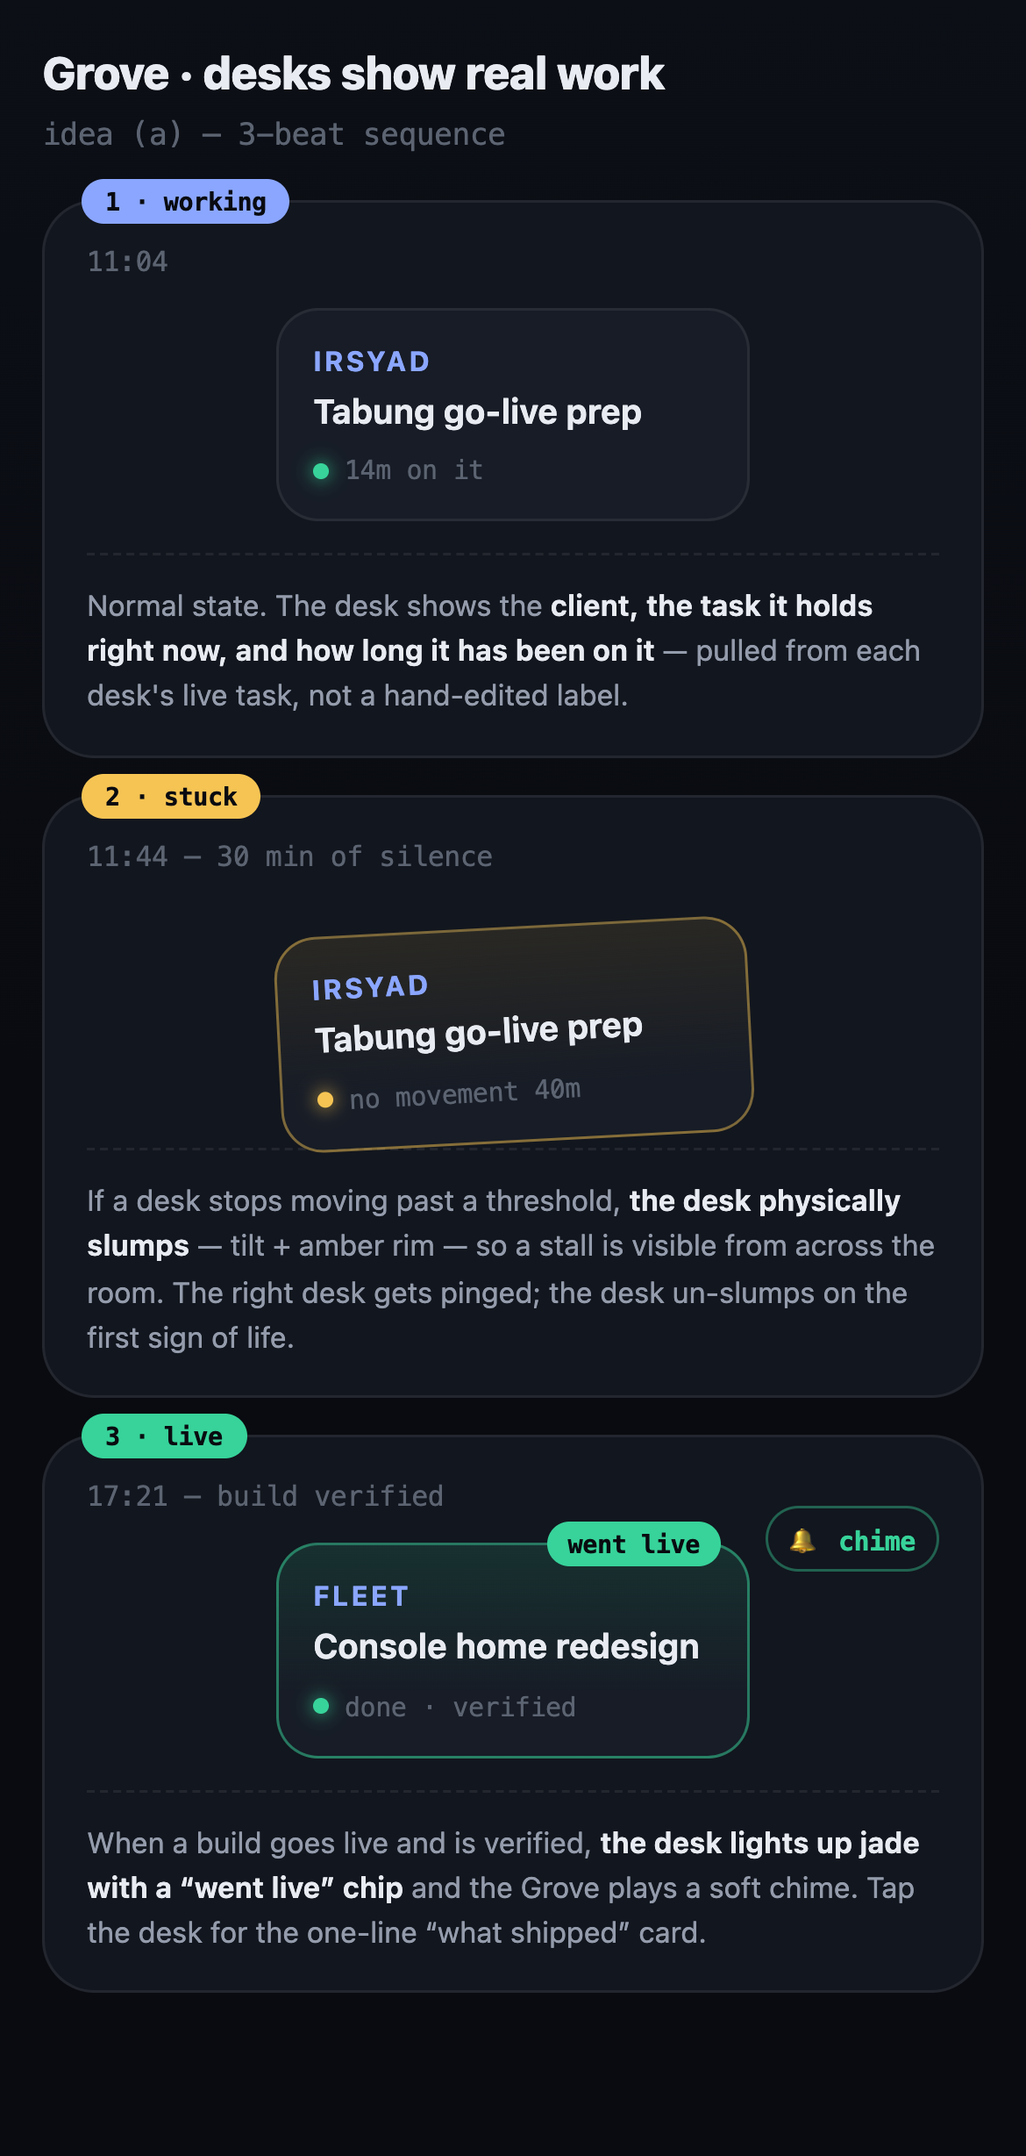
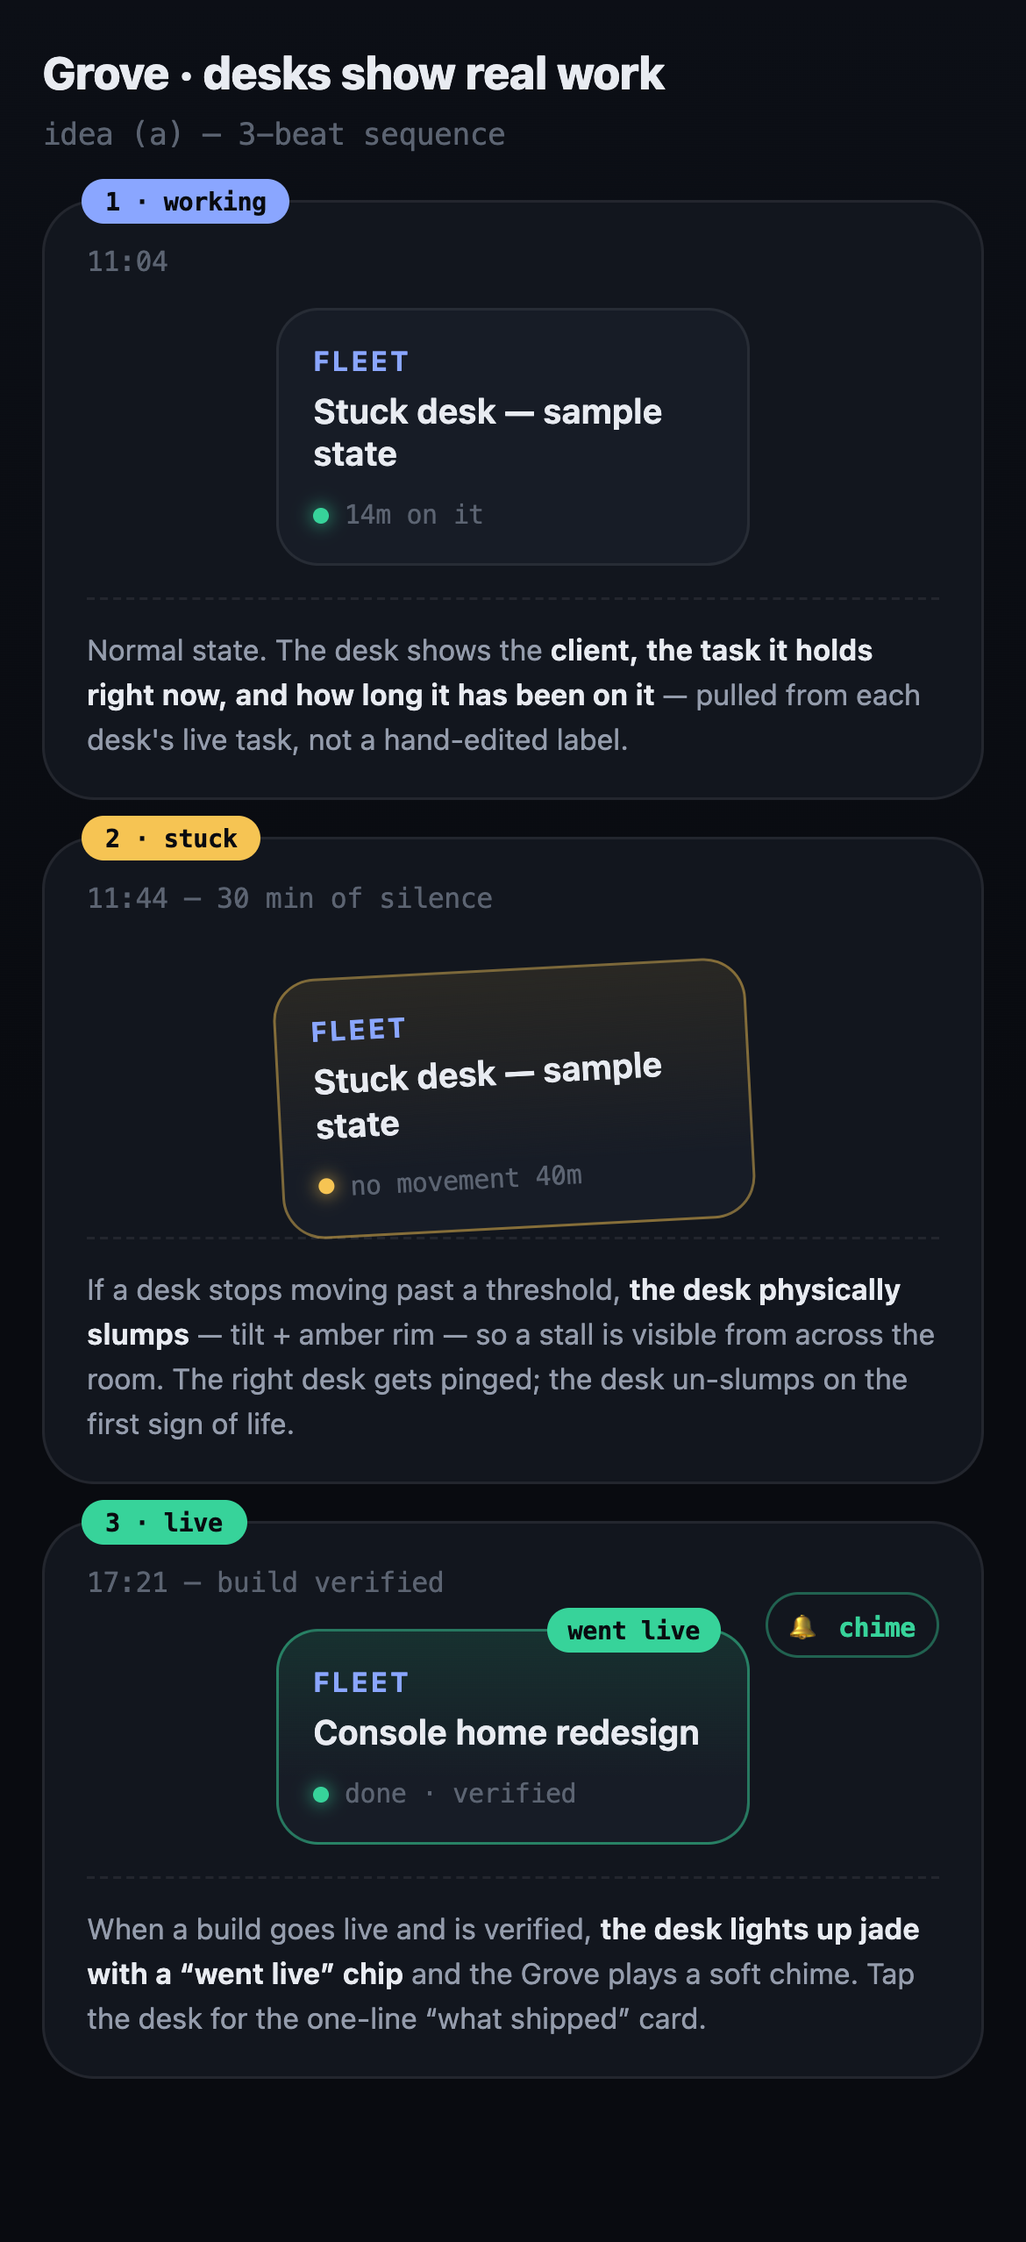
docs(mockups): rev2 per orch-console 78498 — no invented progress on real items
1. Parcel story = real ask 5343 end-to-end: personal-issue field change,
   asked 09:14, ADCDA desk (real owner), live 14:21, took 5h07m — every
   timestamp from the ask row. Still shows its true state (live), not a
   fabricated building.
2. MUIS CEO lines de-client-tagged in home A/B/1280 (source row is
   operator-surface, delegated orch-console — the ADCDA tag was my
   composition error, not a derivation to fix).
3. Stuck-desk examples now fleet desks labelled "sample" (grove-a still+seq,
   grove-c-seq) — no invented state on the real irsyad/Tabung work.
4. Parcel badge clipping fixed (padding) + geometry-asserted (clear by 14px).

All 9 re-rendered, structural + no-jargon asserts green.

diff --git a/reports/mockups/2026-10-28-op-first-home/grove-b-parcel.html b/reports/mockups/2026-10-28-op-first-home/grove-b-parcel.html
@@ -22,9 +22,9 @@ background:linear-gradient(180deg,rgba(138,166,255,.16),var(--surface2));display
 .end.desk .door{border-color:rgba(55,211,154,.4);background:linear-gradient(180deg,rgba(55,211,154,.14),var(--surface2))}
 .courier{position:absolute;left:50%;top:36px;transform:translateX(-50%);text-align:center}
 .courier .body{width:34px;height:34px;border-radius:50%;background:var(--indigo);display:flex;align-items:center;justify-content:center;font-size:16px;box-shadow:0 0 18px rgba(138,166,255,.5)}
-.parcel{position:relative;width:112px;margin:10px auto 0;border:1px solid var(--amber);border-radius:10px;background:var(--surface2);padding:9px 10px;text-align:center}
+.parcel{position:relative;width:112px;margin:10px auto 0;border:1px solid var(--jade);border-radius:10px;background:var(--surface2);padding:10px 10px 13px;text-align:center}
 .parcel .t{font:650 12px/1.25 var(--sans)}
-.parcel .s{font:700 9px var(--mono);color:var(--bg);background:var(--amber);display:inline-block;padding:2px 8px;border-radius:999px;margin-top:6px}
+.parcel .s{font:700 9px var(--mono);color:var(--bg);background:var(--jade);display:inline-block;padding:2px 8px;border-radius:999px;margin-top:7px;line-height:1.5}
 .parcel .s.building{background:var(--indigo)}
 .parcel .s.live{background:var(--jade)}
 .states{display:grid;grid-template-columns:1fr 1fr 1fr;gap:8px;margin-top:10px}
@@ -44,10 +44,10 @@ background:linear-gradient(180deg,rgba(138,166,255,.16),var(--surface2));display
 <h2>One ask, one parcel</h2>
 <div class="street">
   <div class="road">
-    <div class="end" style="left:0"><div class="door">🏠</div><div class="lbl">you asked<br>16:32</div></div>
-    <div class="end desk" style="right:0"><div class="door">🖥</div><div class="lbl">ADCDA desk<br>took it 16:36</div></div>
+    <div class="end" style="left:0"><div class="door">🏠</div><div class="lbl">you asked<br>09:14</div></div>
+    <div class="end desk" style="right:0"><div class="door">🖥</div><div class="lbl">ADCDA desk<br>took it that morning</div></div>
     <div class="courier"><div class="body">🛵</div>
-      <div class="parcel"><div class="t">MUIS CEO — intro email</div><div class="s building">building</div></div>
+      <div class="parcel"><div class="t">Personal-issue field — change from your photo</div><div class="s live">live 14:21</div></div>
     </div>
   </div>
 </div>
@@ -60,12 +60,12 @@ background:linear-gradient(180deg,rgba(138,166,255,.16),var(--surface2));display
 
 <h2>Tap the parcel</h2>
 <div class="tapcard">
-  <div class="h"><span>MUIS CEO — intro email</span><span class="who">#12</span></div>
-  <div class="row"><span class="k">status</span><span style="color:var(--indigo)">building — on the ADCDA desk</span></div>
-  <div class="row"><span class="k">asked</span><span>16:32 · 9h ago</span></div>
-  <div class="row"><span class="k">due</span><span>tomorrow evening</span></div>
-  <div class="row"><span class="k">last move</span><span>23:50 — draft email written, waiting on your wording pick</span></div>
+  <div class="h"><span>Personal-issue field — change from your photo</span><span class="who">#5343</span></div>
+  <div class="row"><span class="k">status</span><span style="color:var(--jade)">live — went live 14:21, verified</span></div>
+  <div class="row"><span class="k">asked</span><span>09:14 this morning</span></div>
+  <div class="row"><span class="k">took</span><span>5h 07m from your message to live</span></div>
+  <div class="row"><span class="k">desk</span><span>ADCDA — built and verified it</span></div>
 </div>
 
-<div class="note">still, idea (b) — parcel identity = the ask row (title, asked-at, due, last activity); courier path is the routing from you to the owning desk. All fields exist today except the courier art itself.</div>
+<div class="note">still, idea (b) — a REAL ask shown with its REAL timeline: asked 09:14, taken by the ADCDA desk (its actual owner), live 14:21 — every time above is from the ask row. Title is the plain-words rendering of its own text. Only the courier art is invented.</div>
 </div></body></html>

diff --git a/reports/mockups/2026-10-28-op-first-home/grove-b-seq.html b/reports/mockups/2026-10-28-op-first-home/grove-b-seq.html
@@ -26,31 +26,31 @@ background:repeating-linear-gradient(90deg,rgba(255,255,255,.05) 0 18px,transpar
 .ann{font:11px/1.55 var(--sans);color:var(--dim);margin-top:10px;padding-top:10px;border-top:1px dashed var(--hair)}
 .ann b{color:var(--txt);font-weight:650}
 </style></head><body><div class="wrap">
-<h1>Grove · your ask as a parcel</h1><div class="sub">idea (b) — 3-beat sequence</div>
+<h1>Grove · your ask as a parcel</h1><div class="sub">idea (b) — 3-beat sequence · a real ask from 27 Oct</div>
 
-<div class="frame"><span class="tag" style="background:var(--amber)">1 · asked</span><div class="when">16:32 — you hit send</div>
+<div class="frame"><span class="tag" style="background:var(--amber)">1 · asked</span><div class="when">09:14 — you hit send</div>
   <div class="lane">
     <div class="node" style="left:6px"><div class="b">🏠</div><div class="l">you</div></div>
-    <div class="parc" style="left:8px"><div class="t">MUIS CEO — intro email</div><div class="s">asked</div></div>
+    <div class="parc" style="left:8px"><div class="t">Personal-issue field — change from your photo</div><div class="s">asked</div></div>
   </div>
   <div class="ann">Every ask you send <b>becomes a tagged parcel at your door</b>. No list to hunt through — the parcel exists the moment the message lands.</div>
 </div>
 
-<div class="frame"><span class="tag" style="background:var(--indigo)">2 · building</span><div class="when">16:36 — a desk takes it</div>
+<div class="frame"><span class="tag" style="background:var(--indigo)">2 · building</span><div class="when">that morning — a desk takes it</div>
   <div class="lane">
     <div class="node" style="left:6px"><div class="b">🏠</div><div class="l">you</div></div>
     <div class="node" style="right:6px"><div class="b">🖥</div><div class="l">ADCDA desk</div></div>
-    <div class="parc building" style="left:calc(50% - 59px)"><div class="t">MUIS CEO — intro email</div><div class="s">building</div></div>
+    <div class="parc building" style="left:calc(50% - 59px)"><div class="t">Personal-issue field — change from your photo</div><div class="s">building</div></div>
   </div>
   <div class="ann"><b>The courier carries it to the owning desk</b> — tag flips amber → indigo, and the parcel sits visibly on that desk while it is worked. Tap any time for the status card.</div>
 </div>
 
-<div class="frame"><span class="tag" style="background:var(--jade)">3 · live</span><div class="when">next day, 11:58 — verified</div>
+<div class="frame"><span class="tag" style="background:var(--jade)">3 · live</span><div class="when">14:21 — verified live (5h 07m after you asked)</div>
   <div class="chime">🔔 chime</div>
   <div class="lane">
     <div class="node" style="right:6px"><div class="b">🖥</div><div class="l">ADCDA desk</div></div>
-    <div class="parc live" style="right:8px"><div class="t">MUIS CEO — intro email</div><div class="s">live</div></div>
+    <div class="parc live" style="right:8px"><div class="t">Personal-issue field — change from your photo</div><div class="s">live</div></div>
   </div>
-  <div class="ann"><b>Delivered = verified live, not “task closed.”</b> Tag flips jade, a soft chime plays once, and the parcel fades from the floor after a beat — your “waiting on you” list only ever shows amber ones.</div>
+  <div class="ann"><b>Delivered = verified live, not “task closed.”</b> All three timestamps above are the ask’s real record. Tag flips jade, a soft chime plays once — this one took 5h 07m end to end. The parcel fades after a beat; your “waiting on you” list only ever shows amber ones.</div>
 </div>
 </div></body></html>

diff --git a/reports/mockups/2026-10-28-op-first-home/grove-a-desks.html b/reports/mockups/2026-10-28-op-first-home/grove-a-desks.html
@@ -43,8 +43,8 @@ background:var(--amber);padding:3px 8px;border-radius:999px}
     <div class="time"><span class="dot"></span>2h 10m on it</div></div>
   <div class="desk"><div class="client">cosem</div><div class="task">Trainer app release — week cap</div>
     <div class="time"><span class="dot"></span>45m on it</div></div>
-  <div class="desk stuck"><div class="flag">stuck 40m</div><div class="client">irsyad</div>
-    <div class="task">Tabung go-live prep</div>
+  <div class="desk stuck"><div class="flag">sample · stuck 40m</div><div class="client">fleet</div>
+    <div class="task">Stuck desk — sample state</div>
     <div class="time"><span class="dot"></span>no movement 40m</div></div>
   <div class="desk"><div class="client">Bariq</div><div class="task">Afiq bot — waiting on your token</div>
     <div class="time"><span class="dot"></span>waiting 2d</div></div>
@@ -55,5 +55,5 @@ background:var(--amber);padding:3px 8px;border-radius:999px}
   <span><b>upright</b> = working</span><span><b>slumped + amber</b> = stuck past 30m</span>
   <span><b>lit jade</b> = went live today</span><span><b>dim</b> = idle</span>
 </div>
-<div class="note">still, idea (a) — desk state derives from real signals: each desk's live activity + current task title, stuck = no pane movement past a threshold, live = today's verified ships.</div>
+<div class="note">still, idea (a) — desk state derives from real signals: each desk's live activity + current task title, stuck = no movement past a threshold, live = today's verified ships. The stuck desk is a SAMPLE state (no fleet desk is stuck right now); all other desks are real.</div>
 </div></body></html>

diff --git a/reports/mockups/2026-10-28-op-first-home/grove-a-seq.html b/reports/mockups/2026-10-28-op-first-home/grove-a-seq.html
@@ -30,13 +30,13 @@ h1{font-size:17px;margin:0 0 2px;font-weight:800}.sub{color:var(--faint);font:11
 <h1>Grove · desks show real work</h1><div class="sub">idea (a) — 3-beat sequence</div>
 
 <div class="frame"><span class="tag">1 · working</span><div class="when">11:04</div>
-  <div class="desk"><div class="client">irsyad</div><div class="task">Tabung go-live prep</div>
+  <div class="desk"><div class="client">fleet</div><div class="task">Stuck desk — sample state</div>
     <div class="time"><span class="dot"></span>14m on it</div></div>
   <div class="ann">Normal state. The desk shows the <b>client, the task it holds right now, and how long it has been on it</b> — pulled from each desk's live task, not a hand-edited label.</div>
 </div>
 
 <div class="frame"><span class="tag" style="background:var(--amber)">2 · stuck</span><div class="when">11:44 — 30 min of silence</div>
-  <div class="desk stuck"><div class="client">irsyad</div><div class="task">Tabung go-live prep</div>
+  <div class="desk stuck"><div class="client">fleet</div><div class="task">Stuck desk — sample state</div>
     <div class="time"><span class="dot"></span>no movement 40m</div></div>
   <div class="ann">If a desk stops moving past a threshold, <b>the desk physically slumps</b> — tilt + amber rim — so a stall is visible from across the room. The right desk gets pinged; the desk un-slumps on the first sign of life.</div>
 </div>

diff --git a/reports/mockups/2026-10-28-op-first-home/grove-c-seq.html b/reports/mockups/2026-10-28-op-first-home/grove-c-seq.html
@@ -45,9 +45,9 @@ h1{font-size:17px;margin:0 0 2px;font-weight:800}.sub{color:var(--faint);font:11
 <div class="frame"><span class="tag" style="background:var(--amber)">3 · 12:30</span><div class="when">a stall, visible</div>
   <div class="floor">
     <div class="d"><div class="c">cosem</div><div class="k">Trainer app release</div><div class="m">2h 05m on it</div></div>
-    <div class="d slump"><div class="c">irsyad</div><div class="k">Tabung go-live prep</div><div class="m">no movement 40m</div></div>
+    <div class="d slump"><div class="c">fleet</div><div class="k">Stuck desk — sample state</div><div class="m">no movement 40m</div></div>
   </div>
-  <div class="ann">The irsyad desk <b>slumps mid-replay exactly when it stalled in real time</b> — you can see how long stalls lasted and who broke them.</div>
+  <div class="ann">A stuck desk (sample shown) <b>slumps mid-replay exactly when it stalled in real time</b> — you can see how long stalls lasted and who broke them.</div>
 </div>
 
 <div class="frame"><span class="tag" style="background:var(--jade)">4 · 17:21</span><div class="when">the day's headline</div>

diff --git a/reports/mockups/2026-10-28-op-first-home/home-1280.html b/reports/mockups/2026-10-28-op-first-home/home-1280.html
@@ -71,7 +71,7 @@ border:1px dashed var(--hair);color:var(--faint);font:600 13px var(--sans);text-
       <div class="item"><div class="num">1</div><div class="t">Approve weeks 4+ for everyone to see — weeks 1–3 are live; your approval per week is the gate.
         <div class="asked">asked 1d ago · cosem platform</div></div></div>
       <div class="item"><div class="num">2</div><div class="t">Give the gist and recipient for the MUIS CEO email so it can finally be sent.
-        <div class="asked">asked 5d ago · ADCDA</div></div></div>
+        <div class="asked">asked 5d ago</div></div></div>
       <div class="item"><div class="num">3</div><div class="t">G5 BAPT trial: drag the published Ladder 1 back a week so BAPT lands W5, or accept W9?
         <div class="asked">asked 14h ago · ADCDA</div></div></div>
       <div class="item"><div class="num">4</div><div class="t">Decide who may edit the schedule rules — your earlier message on this was cut off.

diff --git a/reports/mockups/2026-10-28-op-first-home/home-b-390.html b/reports/mockups/2026-10-28-op-first-home/home-b-390.html
@@ -65,7 +65,7 @@ border:1px dashed var(--hair);color:var(--faint);font:600 12.5px var(--sans);tex
   <div class="item"><div class="num">1</div><div class="t">Approve weeks 4+ for everyone to see — weeks 1–3 are live; your approval per week is the gate.
     <div class="asked">asked 1d ago · cosem platform</div></div></div>
   <div class="item"><div class="num">2</div><div class="t">Give the gist and recipient for the MUIS CEO email so it can finally be sent.
-    <div class="asked">asked 5d ago · ADCDA</div></div></div>
+    <div class="asked">asked 5d ago</div></div></div>
   <div class="item"><div class="num">3</div><div class="t">G5 BAPT trial: drag the published Ladder 1 back a week so BAPT lands W5, or accept W9?
     <div class="asked">asked 14h ago · ADCDA</div></div></div>
   <div class="item"><div class="num">4</div><div class="t">Decide who may edit the schedule rules — your earlier message on this was cut off.

diff --git a/reports/mockups/2026-10-28-op-first-home/home-a-390.html b/reports/mockups/2026-10-28-op-first-home/home-a-390.html
@@ -100,7 +100,7 @@ border:1px dashed var(--hair);background:transparent;color:var(--faint);font:600
 
 <h2>Waiting on you <span class="n">15</span><span class="more">all 15 ›</span></h2>
 <div class="wait">Give the gist and recipient for the MUIS CEO email so it can finally be sent.
-  <div class="asked">asked 5d ago · ADCDA</div></div>
+  <div class="asked">asked 5d ago</div></div>
 <div class="wait">Approve weeks 4+ for everyone to see — weeks 1–3 are live; your approval per week is the gate.
   <div class="asked">asked 1d ago · cosem platform</div></div>
 <div class="wait">Decide who may edit the schedule rules — your earlier message on this was cut off.

diff --git a/reports/mockups/2026-10-28-op-first-home/render-harness.py b/reports/mockups/2026-10-28-op-first-home/render-harness.py
@@ -58,7 +58,7 @@ PAGES = {
     "grove-a-desks": ("grove-a-desks.html", MOBILE, {
         "six desks": "() => document.querySelectorAll('.desk').length",
         "client + task + time on every desk": "() => { const d = document.querySelectorAll('.desk')[1]; return [d.querySelector('.client'), d.querySelector('.task'), d.querySelector('.time')].filter(Boolean).length; }",
-        "one stuck, flagged": "() => { const d = document.querySelector('.desk.stuck'); return d ? d.querySelector('.flag').textContent + '/' + d.querySelector('.client').textContent : 'NO STUCK DESK'; }",
+        "one stuck, flagged as sample, fleet not a client": "() => { const d = document.querySelector('.desk.stuck'); if (!d) return 'NO STUCK DESK'; const f = d.querySelector('.flag').textContent; return f.indexOf('sample') >= 0 && d.querySelector('.client').textContent === 'fleet' ? f + '/' + d.querySelector('.client').textContent : 'STUCK DESK NOT SAMPLE/FLEET: ' + f; }",
         "one live, badged jade": "() => { const d = document.querySelector('.desk.live'); return d ? getComputedStyle(d.querySelector('.time .dot')).backgroundColor : 'NO LIVE DESK'; }",
         "one quiet": "() => document.querySelectorAll('.desk.quiet').length",
         "legend explains all four states": "() => [...document.querySelectorAll('.legend span b')].map(b => b.textContent)",
@@ -69,15 +69,17 @@ PAGES = {
         "beat 3 live + chime": "() => { const f = document.querySelectorAll('.frame')[2]; return !!f.querySelector('.desk.live') + '/' + f.querySelector('.chime').textContent; }",
     }),
     "grove-b-parcel": ("grove-b-parcel.html", MOBILE, {
-        "parcel in building state": "() => document.querySelector('.parcel .s').textContent",
-        "parcel has your ask title": "() => document.querySelector('.parcel .t').textContent",
+        "parcel shows the real ask LIVE at its real time": "() => { const s = document.querySelector('.parcel .s').textContent; return s.indexOf('live') >= 0 && s.indexOf('14:21') >= 0 ? s : 'NOT REAL LIVE STATE: ' + s; }",
+        "parcel has the real ask title": "() => document.querySelector('.parcel .t').textContent",
+        "badge not clipped by card": "() => { const b = document.querySelector('.parcel .s').getBoundingClientRect(); const c = document.querySelector('.parcel').getBoundingClientRect(); return (c.bottom - b.bottom) >= 2 && (b.top - c.top) >= 2 && (c.right - b.right) >= 0 && (b.left - c.left) >= 0 ? 'clear by ' + Math.round(c.bottom - b.bottom) + 'px' : 'CLIPPED: badge bottom margin ' + (c.bottom - b.bottom); }",
         "three states explained": "() => [...document.querySelectorAll('.chip .n')].map(n => n.textContent)",
-        "tap card: status/asked/due/last move": "() => [...document.querySelectorAll('.tapcard .row .k')].map(k => k.textContent)",
-        "tap card last move": "() => [...document.querySelectorAll('.tapcard .row')].pop().textContent.trim().replace(/\\s+/g,' ')",
+        "tap card: status/asked/took/desk": "() => [...document.querySelectorAll('.tapcard .row .k')].map(k => k.textContent)",
+        "tap card cites real took time": "() => { const t = [...document.querySelectorAll('.tapcard .row')].find(r => r.textContent.indexOf('5h 07m') >= 0); return t ? t.textContent.trim().replace(/\\s+/g,' ') : 'NO REAL TOOK TIME'; }",
     }),
     "grove-b-seq": ("grove-b-seq.html", MOBILE, {
         "3 beats": "() => [...document.querySelectorAll('.frame .tag')].map(t => t.textContent)",
         "parcel class progresses amber->indigo->jade": "() => [...document.querySelectorAll('.frame')].map(f => f.querySelector('.parc').className)",
+        "beats carry the real timestamps": "() => { const w = [...document.querySelectorAll('.frame .when')].map(x => x.textContent); return w[0].indexOf('09:14') >= 0 && w[2].indexOf('14:21') >= 0 && w[2].indexOf('5h 07m') >= 0 ? w : 'TIMES NOT REAL: ' + w; }",
         "live beat has chime": "() => !!document.querySelectorAll('.frame')[2].querySelector('.chime')",
     }),
     "grove-c-replay": ("grove-c-replay.html", MOBILE, {
